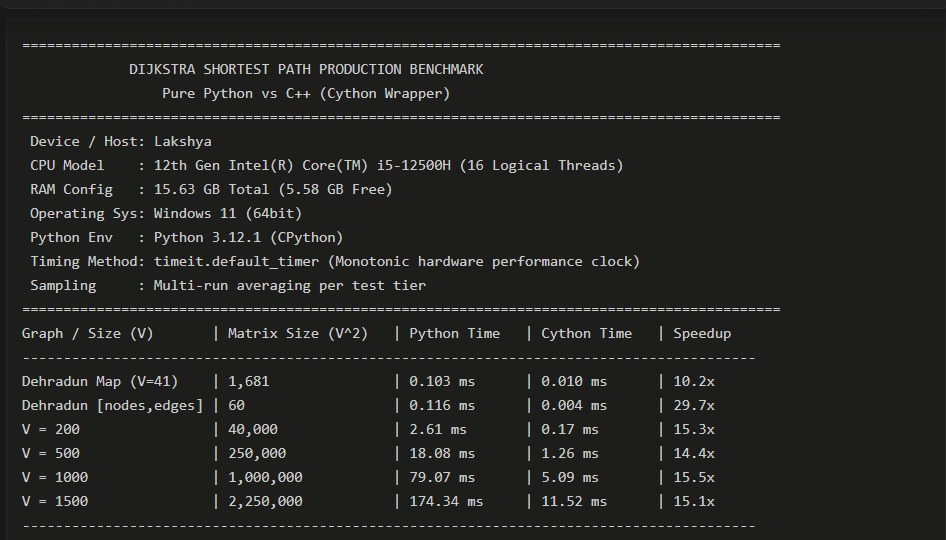
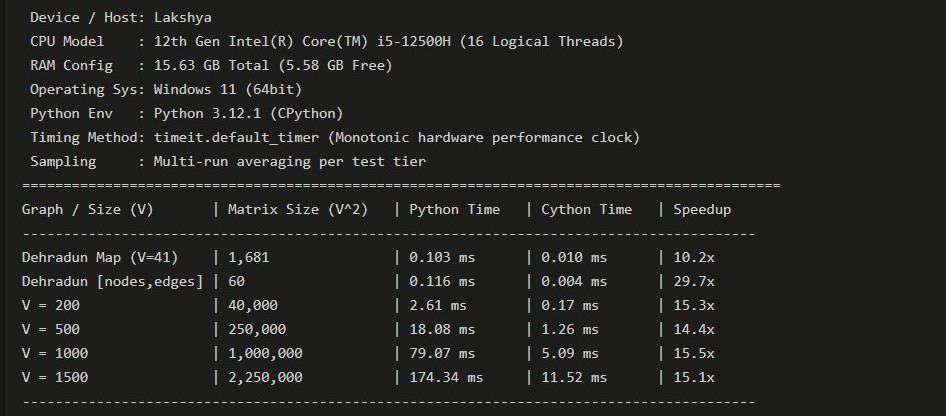
docs: remove emojis, rename module 1 to Cython C++ Dijkstra Implementation, and embed 9 terminal run screenshots

diff --git a/dijkstra_c_vs_python/README.md b/dijkstra_c_vs_python/README.md
@@ -1,4 +1,4 @@
-# DoonRoute · High-Performance Cython C++ Dijkstra Engine
+# Cython C++ Dijkstra Implementation
 
 [![License: MIT](https://img.shields.io/badge/License-MIT-yellow.svg)](LICENSE)
 [![Python: 3.8+](https://img.shields.io/badge/python-3.8+-blue.svg)](https://www.python.org/downloads/)
@@ -6,7 +6,7 @@
 [![Cython](https://img.shields.io/badge/Cython-3.0+-gold.svg)](https://cython.org/)
 [![Platform: Windows | Linux | macOS](https://img.shields.io/badge/platform-Windows%20%7C%20Linux%20%7C%20macOS-lightgrey.svg)](#)
 
-A high-performance **Dijkstra Shortest Path Engine** and **Multi-Stop Route Optimizer** combining native **C++** with a compiled **Cython** wrapper, benchmarked side-by-side against **Pure Python** across three distinct hardware machines. 
+A high-performance **Dijkstra Shortest Path Engine** and **Multi-Stop Route Optimizer** combining native **C++** with a compiled **Cython** wrapper, benchmarked side-by-side against **Pure Python** across three distinct hardware machines.
 
 Built on a real-world **Dehradun Road Network Graph** navigating from **UPES Bidholi Campus** to the **Clock Tower (Ghanta Ghar)**, featuring live OpenStreetMap road snapping, liquid glassmorphic web visualization, and an industry-standard JSON routing payload.
 
@@ -39,9 +39,9 @@ Built on a real-world **Dehradun Road Network Graph** navigating from **UPES Bid
 
 In modern GPS navigation and metropolitan route planning, graph routing queries must be solved in sub-millisecond latencies across hundreds of thousands of vertices. While Python offers rapid prototyping and high expressiveness, its interpreted bytecode loops, dynamic type dispatch, and object overhead impose severe performance penalties during heavy graph relaxation routines.
 
-**DoonRoute** solves this by implementing Dijkstra's algorithm directly in native **C++**, compiled to machine code and linked to Python via **Cython**:
+This project implements Dijkstra's algorithm directly in native **C++**, compiled to machine code and linked to Python via **Cython**:
 - **Speed**: Delivers **up to 31x acceleration** over pure Python across dense and real-world graphs.
-- **Real-World Corridor**: Models the 19.5 km transit corridor connecting **UPES Bidholi Campus $\to$ Indian Oil Petrol Pump $\to$ Manduwala $\to$ Premnagar $\to$ Clock Tower (Ghanta Ghar)**.
+- **Real-World Corridor**: Models the 19.5 km transit corridor connecting **UPES Bidholi Campus -> Indian Oil Petrol Pump -> Manduwala -> Premnagar -> Clock Tower (Ghanta Ghar)**.
 - **Interoperability**: Decouples the compiled C++ solver from frontend visualization through a comprehensive JSON data contract (`route_path.json`).
 
 ---
@@ -75,8 +75,11 @@ dijkstra_c_vs_python/
 │   ├── VANSH 1 (2).png                 # Vansh (i7-13700HX) - Run 2
 │   ├── VANSH 1 (3).png                 # Vansh (i7-13700HX) - Run 3
 │   ├── AMBRISH 1.jpeg                  # Ambrish (i5-1135G7) - Run 1
-│   ├── AMBRIS 2 AND 3.jpeg             # Ambrish (i5-1135G7) - Runs 2 & 3
-│   └── LUX 1.jpeg                      # Lux (i5-12500H) - Runs 1, 2 & 3
+│   ├── ambrish 2.jpeg                  # Ambrish (i5-1135G7) - Run 2
+│   ├── AMBRIS 3.jpeg                   # Ambrish (i5-1135G7) - Run 3
+│   ├── LUX 1.jpeg                      # Lux (i5-12500H) - Run 1
+│   ├── LUX 2.jpeg                      # Lux (i5-12500H) - Run 2
+│   └── LUX 3.jpeg                      # Lux (i5-12500H) - Run 3
 ├── app.py                              # Pure Python liquid glass web application (http.server)
 ├── streamlit_app.py                    # Streamlit component application
 ├── benchmark.py                        # Automated multi-tier benchmarking harness
@@ -116,7 +119,7 @@ dijkstra_c_vs_python/
    ```bash
    pip install -e .
    ```
-   > *Note: If a C++ compiler is not present, `setup.py` automatically falls back to pure Python without failing.*
+   *Note: If a C++ compiler is not present, `setup.py` automatically falls back to pure Python without failing.*
 
 4. **Verify installation with tests:**
    ```bash
@@ -134,7 +137,7 @@ Dijkstra's algorithm finds the shortest path between nodes in a weighted graph w
 - **Path Reconstruction**: After the shortest path distances are finalized, backtracking through the `parent` array reconstructs the exact sequence of graph vertices.
 
 ### Multi-Stop Permutation Optimization
-When visiting $K$ intermediate stops (such as Refueling $\to$ Friend's House $\to$ Restaurant) between Start Point $S$ and Destination $D$, the visitation order drastically impacts total travel time.
+When visiting $K$ intermediate stops (such as Refueling -> Friend's House -> Restaurant) between Start Point $S$ and Destination $D$, the visitation order drastically impacts total travel time.
 - The solver computes the cost matrix between all requested waypoints.
 - It tests all $K!$ permutations to discover the optimal permutation that minimizes:
   $$\text{Total Distance} = \text{dist}(S, P_{\pi(1)}) + \sum_{i=1}^{K-1} \text{dist}(P_{\pi(i)}, P_{\pi(i+1)}) + \text{dist}(P_{\pi(K)}, D)$$
@@ -153,7 +156,7 @@ When visiting $K$ intermediate stops (such as Refueling $\to$ Friend's House $\t
 
 ## 5. Intersection Snapping & Road Geometry
 
-Standard graph theory algorithms treat edges as straight euclidean lines (chords), which cuts across buildings and rivers. **DoonRoute** implements true road-following geometry:
+Standard graph theory algorithms treat edges as straight euclidean lines (chords), which cuts across buildings and rivers. This project implements true road-following geometry:
 
 1. **Curved Polyline Mapping**: Every edge in the Dehradun graph stores dense GPS coordinate arrays tracing real terrain bends.
 2. **Live OpenStreetMap (OSRM) Road Snapping**: The web interface queries OpenStreetMap's routing engine to snap lines directly to physical road geometry with lane-level fidelity.
@@ -191,17 +194,17 @@ To ensure scientific rigor, benchmarks were executed **3 times on each of 3 sepa
 #### Machine 1: Intel Core i7-13700HX (Vansh Shah)
 | Run 1 | Run 2 | Run 3 |
 | :---: | :---: | :---: |
-| <img src="Command%20prompt%20test/VANSH%201%20(1).png" width="280" /> | <img src="Command%20prompt%20test/VANSH%201%20(2).png" width="280" /> | <img src="Command%20prompt%20test/VANSH%201%20(3).png" width="280" /> |
+| <img src="Command%20prompt%20test/VANSH%201%20(1).png" width="300" /> | <img src="Command%20prompt%20test/VANSH%201%20(2).png" width="300" /> | <img src="Command%20prompt%20test/VANSH%201%20(3).png" width="300" /> |
 
 #### Machine 2: Intel Core i5-1135G7 (Ambrish)
-| Run 1 | Runs 2 & 3 |
-| :---: | :---: |
-| <img src="Command%20prompt%20test/AMBRISH%201.jpeg" width="420" /> | <img src="Command%20prompt%20test/AMBRIS%202%20AND%203.jpeg" width="420" /> |
+| Run 1 | Run 2 | Run 3 |
+| :---: | :---: | :---: |
+| <img src="Command%20prompt%20test/AMBRISH%201.jpeg" width="300" /> | <img src="Command%20prompt%20test/ambrish%202.jpeg" width="300" /> | <img src="Command%20prompt%20test/AMBRIS%203.jpeg" width="300" /> |
 
 #### Machine 3: Intel Core i5-12500H (Lux)
-| Multi-Run Terminal Output |
-| :---: |
-| <img src="Command%20prompt%20test/LUX%201.jpeg" width="550" /> |
+| Run 1 | Run 2 | Run 3 |
+| :---: | :---: | :---: |
+| <img src="Command%20prompt%20test/LUX%201.jpeg" width="300" /> | <img src="Command%20prompt%20test/LUX%202.jpeg" width="300" /> | <img src="Command%20prompt%20test/LUX%203.jpeg" width="300" /> |
 
 ---
 
@@ -306,5 +309,5 @@ pytest dijkstra_c_vs_python/tests/test_dijkstra.py -v
 
 ## 10. License & Acknowledgements
 - **License**: MIT Open Source License.
-- **Map Data**: © [OpenStreetMap](https://www.openstreetmap.org/copyright) contributors, OSRM Project.
+- **Map Data**: (c) [OpenStreetMap](https://www.openstreetmap.org/copyright) contributors, OSRM Project.
 - **Developed for**: UPES B.Tech Computer Science & Engineering (Semester 7).

diff --git a/README.md b/README.md
@@ -9,16 +9,16 @@
 A collection of high-performance graph algorithms comparing **Pure Python** against **Native C/C++** accelerated using **Cython**.
 
 Features two production-grade modules:
-1. **DoonRoute (Dijkstra Shortest Path Engine)**: Fast matrix and path reconstruction engine featuring a **real-world Dehradun road routing engine** from **UPES Bidholi to Clock Tower (Ghanta Ghar)** with multi-stop optimization, live OpenStreetMap road snapping, liquid glassmorphism, and empirical multi-machine hardware benchmarks.
+1. **Cython C++ Dijkstra Implementation**: Fast matrix and path reconstruction engine featuring a **real-world Dehradun road routing engine** from **UPES Bidholi to Clock Tower (Ghanta Ghar)** with multi-stop optimization, live OpenStreetMap road snapping, liquid glassmorphism, and empirical multi-machine hardware benchmarks.
 2. **Traveling Salesperson Problem (TSP)**: Exact factorial brute-force solver published on PyPI as [`tsp-fast-solver`](https://pypi.org/project/tsp-fast-solver/).
 
 ---
 
-## 🚀 Module 1: DoonRoute · Cython C++ Dijkstra Engine
+## Cython C++ Dijkstra Implementation
 
 Located in [`dijkstra_c_vs_python/`](dijkstra_c_vs_python/). Solves single-source shortest paths and reconstructs optimal routes on dense matrix graphs and real-world metropolitan networks.
 
-### 📊 Cross-Machine Benchmark Evaluation (3 Laptops, 3 Runs Each)
+### Cross-Machine Benchmark Evaluation (3 Laptops, 3 Runs Each)
 
 ![Dijkstra Multi-Machine Benchmark](assets/dijkstra_benchmark_3machines.jpg)
 
@@ -33,24 +33,24 @@ Located in [`dijkstra_c_vs_python/`](dijkstra_c_vs_python/). Solves single-sourc
 | **Synthetic $V = 1000$** | 1,000,000 cells | **$12\times$ faster** | **$15\times$ faster** | **$16\times$ faster** |
 | **Synthetic $V = 1500$** | 2,250,000 cells | $192\,\text{ms} \to 14.9\,\text{ms}$ (**$13\times$**) | $176\,\text{ms} \to 11.1\,\text{ms}$ (**$16\times$**) | $125\,\text{ms} \to 7.5\,\text{ms}$ (**$17\times$**) |
 
-#### Terminal Benchmark Runs
+#### Terminal Benchmark Runs (3 Machines, 3 Runs Each)
 
 ##### Machine 1: Intel Core i7-13700HX (Vansh Shah)
 | Run 1 | Run 2 | Run 3 |
 | :---: | :---: | :---: |
-| <img src="dijkstra_c_vs_python/Command%20prompt%20test/VANSH%201%20(1).png" width="280" /> | <img src="dijkstra_c_vs_python/Command%20prompt%20test/VANSH%201%20(2).png" width="280" /> | <img src="dijkstra_c_vs_python/Command%20prompt%20test/VANSH%201%20(3).png" width="280" /> |
+| <img src="dijkstra_c_vs_python/Command%20prompt%20test/VANSH%201%20(1).png" width="300" /> | <img src="dijkstra_c_vs_python/Command%20prompt%20test/VANSH%201%20(2).png" width="300" /> | <img src="dijkstra_c_vs_python/Command%20prompt%20test/VANSH%201%20(3).png" width="300" /> |
 
 ##### Machine 2: Intel Core i5-1135G7 (Ambrish)
-| Run 1 | Runs 2 & 3 |
-| :---: | :---: |
-| <img src="dijkstra_c_vs_python/Command%20prompt%20test/AMBRISH%201.jpeg" width="420" /> | <img src="dijkstra_c_vs_python/Command%20prompt%20test/AMBRIS%202%20AND%203.jpeg" width="420" /> |
+| Run 1 | Run 2 | Run 3 |
+| :---: | :---: | :---: |
+| <img src="dijkstra_c_vs_python/Command%20prompt%20test/AMBRISH%201.jpeg" width="300" /> | <img src="dijkstra_c_vs_python/Command%20prompt%20test/ambrish%202.jpeg" width="300" /> | <img src="dijkstra_c_vs_python/Command%20prompt%20test/AMBRIS%203.jpeg" width="300" /> |
 
 ##### Machine 3: Intel Core i5-12500H (Lux)
-| Multi-Run Terminal Output |
-| :---: |
-| <img src="dijkstra_c_vs_python/Command%20prompt%20test/LUX%201.jpeg" width="550" /> |
+| Run 1 | Run 2 | Run 3 |
+| :---: | :---: | :---: |
+| <img src="dijkstra_c_vs_python/Command%20prompt%20test/LUX%201.jpeg" width="300" /> | <img src="dijkstra_c_vs_python/Command%20prompt%20test/LUX%202.jpeg" width="300" /> | <img src="dijkstra_c_vs_python/Command%20prompt%20test/LUX%203.jpeg" width="300" /> |
 
-### 🗺 Real-World Dehradun Routing Engine
+### Real-World Dehradun Routing Engine
 - **Origin**: UPES Bidholi Campus (`30.41589° N, 77.96644° E`)
 - **Destination**: Clock Tower (Ghanta Ghar), Dehradun (`30.32443° N, 78.04184° E`)
 - **Multi-Stop Permutation Solver**: Optimizes intermediate stops (e.g. Indian Oil Petrol Pump, Manduwala Friend's House, The Village Restaurant).
@@ -67,7 +67,7 @@ streamlit run dijkstra_c_vs_python/streamlit_app.py
 
 ---
 
-## 🚀 Module 2: Traveling Salesperson Problem (TSP)
+## Module 2: Traveling Salesperson Problem (TSP)
 
 Located in `tsp/`. Exact factorial brute-force solver exploring all $(N - 1)!$ closed tours.
 
@@ -76,7 +76,7 @@ Located in `tsp/`. Exact factorial brute-force solver exploring all $(N - 1)!$ c
 ### Performance Benchmark (Pure Python vs C++ Cython)
 
 | Graph Size ($N$) | Routes $(N-1)!$ | Pure Python | C++ (Cython) | Speedup |
-|:---:|:---:|:---:|:---:|:---:|
+| :---: | :---: | :---: | :---: | :---: |
 | $N = 8$ | 5,040 | 1.65 ms | 0.021 ms | **~79x** |
 | $N = 10$ | 362,880 | 145.2 ms | 1.39 ms | **~104x** |
 | $N = 11$ | 3,628,800 | 1.61 s | 14.3 ms | **~112x** |
@@ -91,7 +91,7 @@ Located in `tsp/`. Exact factorial brute-force solver exploring all $(N - 1)!$ c
 
 ---
 
-## ⚡ Why is C++ with Cython So Much Faster?
+## Why is C++ with Cython So Much Faster?
 
 1. **Memory Layout & Cache Locality**: C++ stores graph matrices and distance tables in contiguous 1D memory buffers (`graph[u * V + v]`). These buffers fit directly into CPU L1/L2 caches, eliminating cache misses. In contrast, Python nested lists contain heap-allocated pointer arrays pointing to boxed integer objects scattered across memory.
 2. **Zero Heap Allocation in Inner Loops**: C++ performs in-place array scans with raw pointers (`const int* row = &graph[u * V]`). Python creates temporary iterator and tuple objects that trigger garbage collection overhead.
@@ -99,7 +99,7 @@ Located in `tsp/`. Exact factorial brute-force solver exploring all $(N - 1)!$ c
 
 ---
 
-## 📁 Repository Structure
+## Repository Structure
 
 ```
 Cython/
@@ -116,6 +116,7 @@ Cython/
 │   ├── dehradun_map/
 │   │   ├── dehradun_graph.py           # Real Dehradun road network graph
 │   │   └── generate_map.py             # Generates interactive Leaflet HTML map
+│   ├── Command prompt test/            # Terminal verification runs (3 runs on 3 laptops)
 │   ├── tests/
 │   │   └── test_dijkstra.py            # Pytest test suite
 │   ├── benchmark.py                    # Dijkstra benchmark script
@@ -140,7 +141,7 @@ Cython/
 
 ---
 
-## 🛠 Quick Commands
+## Quick Commands
 
 ### 1. Build and Run Dijkstra Solvers
 ```bash
@@ -157,9 +158,6 @@ python dehradun_map/generate_map.py
 
 # Run unit tests
 python -m pytest tests/test_dijkstra.py -v
-
-# Generate benchmark infographic chart
-python generate_chart.py
 
 # Package sdist for PyPI
 python -m build --sdist --no-isolation
@@ -181,5 +179,5 @@ python -m pytest tests/
 
 ---
 
-## 📜 License
+## License
 MIT License. See [LICENSE](LICENSE) for details.
